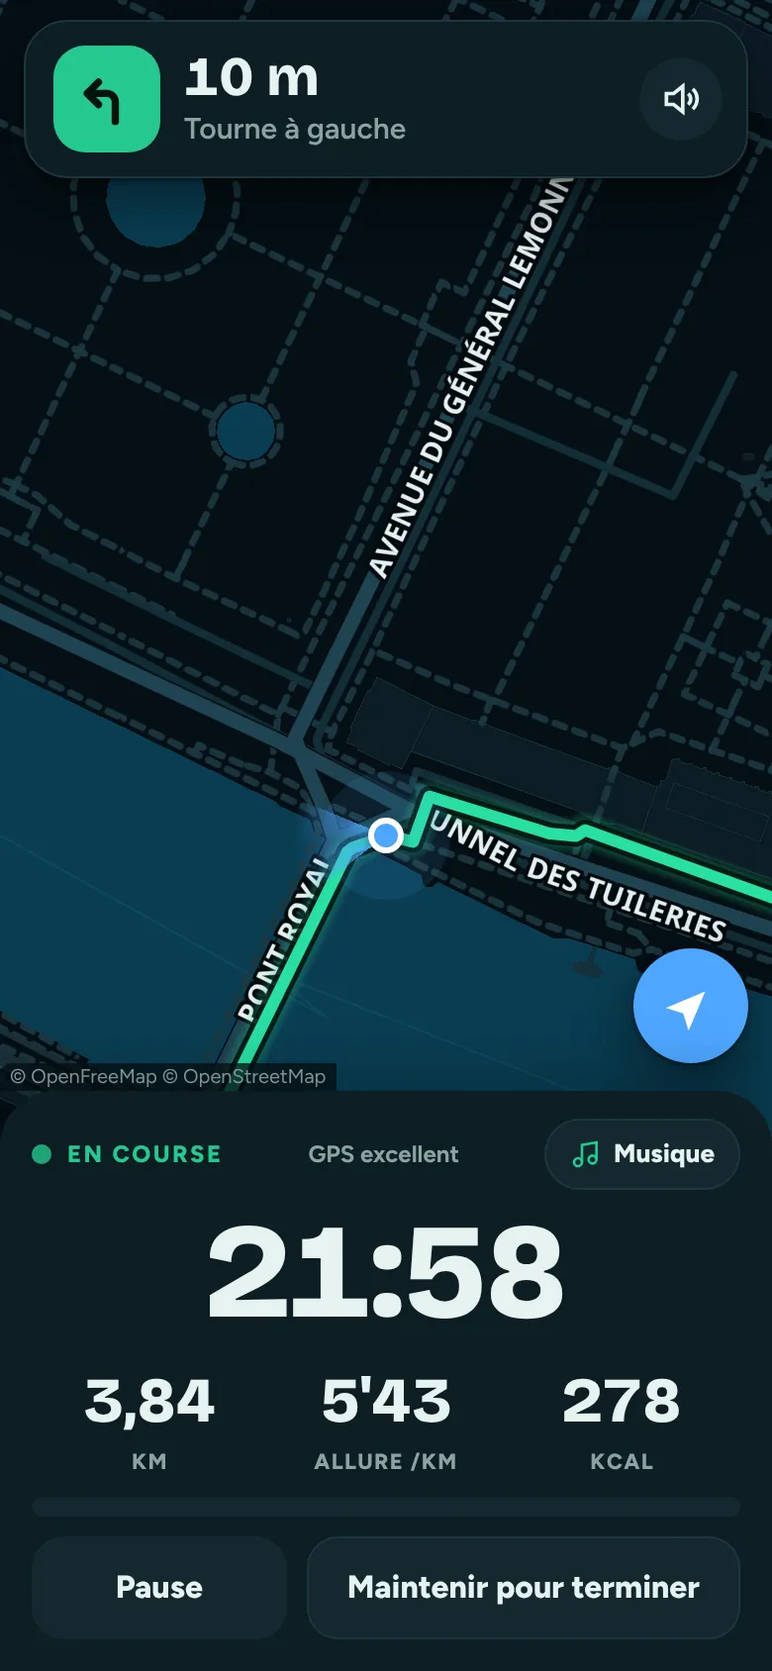
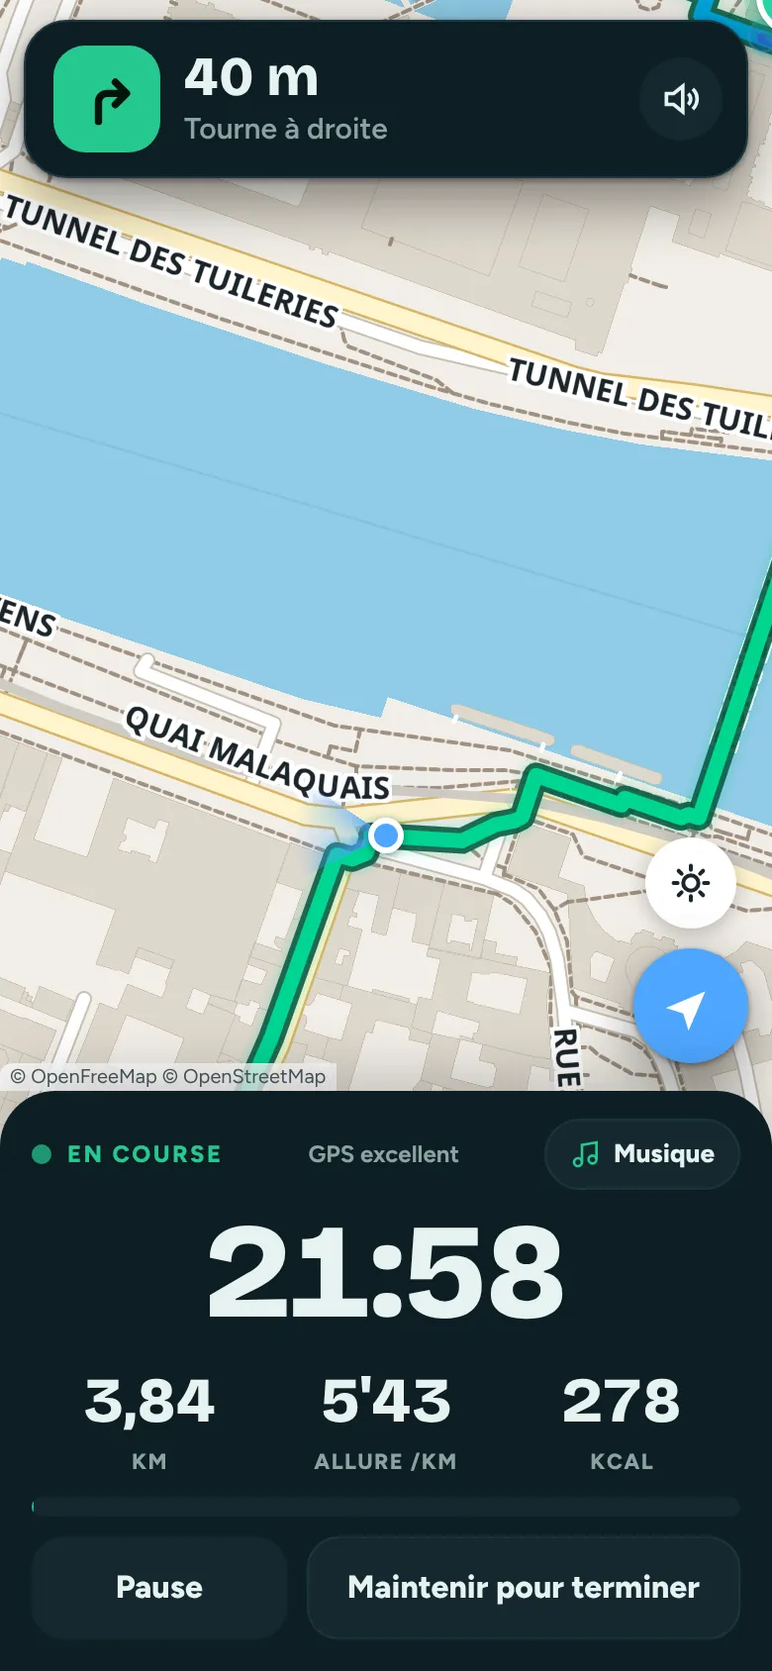
Cartes plus lisibles : plan jour clair par défaut, bouton jour/nuit, rues et noms plus visibles
- Carte jour (par défaut) : fond clair, rues blanches bordées et plus larges,
  grands axes jaunes, noms des rues en gras foncé sur halo blanc, plus grands.
- Carte nuit plus contrastée (routes et noms plus clairs).
- Bouton soleil/lune sur la carte, choix mémorisé ; carte de secours Esri
  claire ou sombre selon le mode.
- Tracé plus épais et plus vif, couleurs adaptées à chaque mode ; l'image à
  partager reste en néon sur fond nuit.
- Page de vente : nouvelles captures et textes alignés sur la carte claire.

Claude-Session: https://claude.ai/code/session_015VMgzwgj7HKLdJyG1BiUxb

diff --git a/app.js b/app.js
@@ -6,7 +6,7 @@ const C = window.TRACEO_CONFIG;
 const PV = window.TRACEO_PREVIEW || null;
 // Diagnostic temporaire : les erreurs (sans données personnelles) sont envoyées à un canal privé pour être corrigées à distance
 const DBG = "https://ntfy.sh/traceo-dbg-9591c50f";
-function report(kind, msg){ try{ fetch(DBG, {method:"POST", body:`[${kind}] ${String(msg).slice(0, 600)} | v43 | ${navigator.userAgent.replace(/\(KHTML.*$/, "").slice(0, 120)}`}).catch(() => {}); }catch(e){} }
+function report(kind, msg){ try{ fetch(DBG, {method:"POST", body:`[${kind}] ${String(msg).slice(0, 600)} | v44 | ${navigator.userAgent.replace(/\(KHTML.*$/, "").slice(0, 120)}`}).catch(() => {}); }catch(e){} }
 // Affiche toute erreur à l'écran (bandeau rouge) : une capture suffit pour corriger
 (function(){ let n = 0; const show = m => { if(n++ > 3) return; const d = document.createElement("div"); d.style.cssText = "position:fixed;left:8px;right:8px;top:calc(env(safe-area-inset-top,0px) + 8px);z-index:9999;background:#B3263E;color:#fff;font:600 12px/1.35 system-ui;padding:8px 10px;border-radius:10px;white-space:pre-wrap"; d.textContent = "Erreur : " + m; d.onclick = () => d.remove(); (document.body || document.documentElement).appendChild(d); setTimeout(() => d.remove(), 15000); };
   window.addEventListener("error", e => { report("error", (e.message || "?") + " " + (e.filename || "") + ":" + (e.lineno || "") + ":" + (e.colno || "") + " " + (e.error && e.error.stack ? String(e.error.stack).slice(0, 300) : "")); if(/^Script error/.test(e.message || "") && window.glFail){ try{ glFail(); }catch(x){} return; } show((e.message || "?") + (e.filename ? " (" + e.filename.split("/").pop() + ":" + e.lineno + ")" : "")); });
@@ -148,6 +148,7 @@ let tileUrl = null, base = null, glBroken = false;
 // Si la carte vectorielle plante (mémoire du téléphone, WebGL), on bascule tout seul sur la carte classique
 function glFail(){ if(glBroken) return; glBroken = true; document.body.classList.remove("glroute"); console.warn("Carte vectorielle indisponible : carte classique"); setTimeout(setBase, 0); }
 async function setBase(){
+  document.body.classList.toggle("map-jour", MAP_MODE() === "jour"); document.body.classList.toggle("map-nuit", MAP_MODE() === "nuit");
   // Calque des noms de rues de la carte classique : au-dessus des tracés (400), sous les repères (600)
   if(!map.getPane("labels")){ const lp = map.createPane("labels"); lp.style.zIndex = 450; lp.style.pointerEvents = "none"; }
   if(base) map.removeLayer(base);
@@ -177,7 +178,7 @@ async function setBase(){
     }catch(e){ console.warn("MapLibre indisponible, carte raster", e); }
   }
   // Carte classique (si la carte vectorielle échoue) : fond sombre Esri + noms des rues dans un calque AU-DESSUS du tracé
-  const ESRI = "https://services.arcgisonline.com/ArcGIS/rest/services/Canvas/World_Dark_Gray_";
+  const ESRI = `https://services.arcgisonline.com/ArcGIS/rest/services/Canvas/World_${MAP_MODE() === "jour" ? "Light" : "Dark"}_Gray_`;
   tileUrl = (z, x, y) => `${ESRI}Base/MapServer/tile/${z}/${y}/${x}`;
   base = L.layerGroup([
     L.tileLayer(ESRI + "Base/MapServer/tile/{z}/{y}/{x}", {maxNativeZoom:16, maxZoom:20, crossOrigin:true, className:"esri-base", attribution:'© <a href="https://www.esri.com">Esri</a> © <a href="https://www.openstreetmap.org/copyright">OpenStreetMap</a>'}),
@@ -186,30 +187,45 @@ async function setBase(){
   return;
   base = L.tileLayer(`https://{s}.basemaps.cartocdn.com/${style}/{z}/{x}/{y}{r}.png`, {subdomains:"abcd", maxZoom:20, crossOrigin:true, attribution:'© <a href="https://www.openstreetmap.org/copyright">OpenStreetMap</a> © <a href="https://carto.com/attributions">CARTO</a>'}).addTo(map);
 }
-// Style de carte « Traceo nuit » : le style OpenFreeMap est retravaillé AVANT affichage (pas de flash),
-// noms en français, eau et parcs bien lisibles, routes hiérarchisées, plus aucun pictogramme parasite.
-const MAP_PAL = {bg:"#050F15", resid:"#07141B", wood:"#0A2A1F", park:"#0D3627", water:"#0A3D52", waterway:"#0E4A60", building:"#0C1C25", buildingLine:"#14303B",
-  path:"#1C3943", minor:"#14303A", major:"#1E4352", majorCase:"#061016", motor:"#27525F", motorCase:"#050D12", rail:"#1A2F38", border:"#2D5866"};
+// Styles de carte Traceo : le style OpenFreeMap est retravaillé AVANT affichage (pas de flash).
+// Priorité : des rues bien visibles et leurs noms lisibles, même en plein soleil.
+// « jour » (par défaut) : plan clair très contrasté. « nuit » : plan sombre.
+const MAP_MODE = () => store.get("mapMode", "jour") === "nuit" ? "nuit" : "jour";
+const PALS = {
+  jour:{bg:"#F1EEE7", resid:"#ECE8E0", wood:"#C9E2BC", park:"#BFE3AE", water:"#8FCBE6", waterway:"#7FC0DE", ice:"#F5FAFC", building:"#DED8CD", buildingLine:"#C7BFB1",
+    path:"#9C8C7C", minor:"#FFFFFF", minorCase:"#C9C0B2", major:"#FFF4CC", majorCase:"#D8B565", motor:"#FFD27A", motorCase:"#C98D2E", rail:"#CFCBC4", border:"#9C88B8",
+    aeroFill:"#E4E0DA", aeroLine:"#D2CCC4", street:"#1B252B", halo:"#FFFFFF", waterTxt:"#2C6E8A", city:"#0E1A20", town:"#24323A", village:"#4A5A62", country:"#0E7A5A"},
+  nuit:{bg:"#08151C", resid:"#0B1B23", wood:"#0E3326", park:"#114030", water:"#0F4A62", waterway:"#135A75", ice:"#13303C", building:"#13262F", buildingLine:"#1E3B47",
+    path:"#3D6573", minor:"#2A4D5A", minorCase:"#08151C", major:"#3B6B7C", majorCase:"#061016", motor:"#4C8394", motorCase:"#050D12", rail:"#2A4550", border:"#4B7A8A",
+    aeroFill:"#102029", aeroLine:"#1A303A", street:"#F2FAF9", halo:"#03090D", waterTxt:"#6FB9D2", city:"#FFFFFF", town:"#E1EEEC", village:"#A9C2C1", country:"#7FE3C3"}
+};
 const FR_NAME = ["coalesce", ["get", "name:fr"], ["get", "name:latin"], ["get", "name"]];
-let styleCache = null;
-async function traceoStyleJSON(url){
-  if(styleCache) return JSON.parse(styleCache);
-  const st = await fetchJSON(url, {}, 10000), P = MAP_PAL;
-  st.layers = st.layers.filter(l => !/^road_oneway|^aeroway-taxiway$/.test(l.id)).map(l => {
+const zw = (...a) => ["interpolate", ["exponential", 1.5], ["zoom"], ...a];   // largeur selon le zoom
+const styleCache = {};
+async function traceoStyleJSON(url, mode = MAP_MODE()){
+  if(styleCache[mode]) return JSON.parse(styleCache[mode]);
+  const st = await fetchJSON(url, {}, 10000), P = PALS[mode];
+  const out = [];
+  for(const l of st.layers){
     const id = l.id, pt = l.paint = l.paint || {}, ly = l.layout = l.layout || {};
+    if(/^road_oneway|^aeroway-taxiway$/.test(id)) continue;
     if(l.type === "background") pt["background-color"] = P.bg;
     else if(id === "water") pt["fill-color"] = P.water;
     else if(id === "waterway") pt["line-color"] = P.waterway;
     else if(id === "landuse_residential"){ pt["fill-color"] = P.resid; pt["fill-opacity"] = 1; }
     else if(id === "landcover_wood"){ pt["fill-color"] = P.wood; pt["fill-opacity"] = .9; }
     else if(id === "landuse_park"){ pt["fill-color"] = P.park; pt["fill-opacity"] = .95; }
-    else if(/glacier|ice_shelf/.test(id)) pt["fill-color"] = "#0E2530";
+    else if(/glacier|ice_shelf/.test(id)) pt["fill-color"] = P.ice;
     else if(id === "building"){ pt["fill-color"] = P.building; pt["fill-outline-color"] = P.buildingLine; pt["fill-opacity"] = ["interpolate", ["linear"], ["zoom"], 13, 0, 15, 1]; }
-    else if(/^aeroway/.test(id)) (l.type === "fill" ? pt["fill-color"] = "#0B1A22" : pt["line-color"] = "#14262E");
-    else if(id === "highway_path"){ pt["line-color"] = P.path; pt["line-dasharray"] = [1.5, 1.5]; }
-    else if(id === "highway_minor") pt["line-color"] = P.minor;
-    else if(/major_casing/.test(id)) pt["line-color"] = P.majorCase;
-    else if(/major_(inner|subtle)/.test(id)) pt["line-color"] = P.major;
+    else if(/^aeroway/.test(id)) (l.type === "fill" ? pt["fill-color"] = P.aeroFill : pt["line-color"] = P.aeroLine);
+    else if(id === "highway_path"){ pt["line-color"] = P.path; pt["line-dasharray"] = [2, 1.4]; pt["line-width"] = zw(13, .8, 16, 2, 18, 3.5, 20, 6); pt["line-opacity"] = .95; }
+    else if(id === "highway_minor"){
+      // rues : bordure + intérieur, nettement plus larges pour être vues d'un coup d'œil
+      out.push({...l, id:"highway_minor_casing", paint:{"line-color":P.minorCase, "line-width":zw(12, 1.2, 14, 3.2, 16, 8, 18, 17, 20, 34), "line-opacity":1}});
+      pt["line-color"] = P.minor; pt["line-opacity"] = 1; pt["line-width"] = zw(12, .6, 14, 2, 16, 6, 18, 14, 20, 30);
+    }
+    else if(/major_casing/.test(id)){ pt["line-color"] = P.majorCase; pt["line-width"] = zw(10, 1.5, 13, 4, 16, 12, 18, 23, 20, 42); }
+    else if(/major_(inner|subtle)/.test(id)){ pt["line-color"] = P.major; pt["line-width"] = zw(10, .8, 13, 2.6, 16, 9.5, 18, 20, 20, 38); }
     else if(/motorway_casing/.test(id)) pt["line-color"] = P.motorCase;
     else if(/motorway_(inner|subtle)/.test(id)) pt["line-color"] = P.motor;
     else if(/pier/.test(id)) (l.type === "fill" ? pt["fill-color"] = P.minor : pt["line-color"] = P.minor);
@@ -218,27 +234,31 @@ async function traceoStyleJSON(url){
     if(l.type === "symbol"){
       if(ly["text-field"] && !/motorway/.test(id)) ly["text-field"] = FR_NAME;
       delete ly["icon-image"]; pt["icon-opacity"] = 0;
-      pt["text-halo-color"] = P.bg; pt["text-halo-width"] = 1.6; pt["text-halo-blur"] = .5;
-      if(id === "water_name"){ pt["text-color"] = "#4B97AE"; ly["text-font"] = ["Noto Sans Italic"]; }
+      pt["text-halo-color"] = P.halo; pt["text-halo-width"] = 1.8; pt["text-halo-blur"] = .3;
+      if(id === "water_name"){ pt["text-color"] = P.waterTxt; ly["text-font"] = ["Noto Sans Italic"]; }
       else if(/highway_name/.test(id)){
-        // Noms des rues : priorité absolue à la lisibilité (gras, clair, plus gros quand on zoome, répétés le long de la rue)
-        pt["text-color"] = ["interpolate", ["linear"], ["zoom"], 13, "#A9C7C5", 16, "#E3F1EF"]; pt["text-halo-color"] = "#03090D"; pt["text-halo-width"] = 2.2; pt["text-halo-blur"] = .3;
-        ly["text-font"] = ["Noto Sans Bold"]; ly["text-size"] = ["interpolate", ["linear"], ["zoom"], 12, 10.5, 14, 12, 16, 14.5, 18, 17];
-        ly["text-letter-spacing"] = .03; ly["symbol-spacing"] = 220; ly["text-max-angle"] = 35; ly["text-padding"] = 1;
+        // Noms des rues : priorité absolue (gras, foncés sur halo blanc le jour, grands, répétés le long de la rue)
+        pt["text-color"] = P.street; pt["text-halo-width"] = 2.6; pt["text-halo-blur"] = 0;
+        ly["text-font"] = ["Noto Sans Bold"]; ly["text-size"] = ["interpolate", ["linear"], ["zoom"], 12, 11, 14, 12.5, 15, 14, 16, 15.5, 18, 19];
+        ly["text-letter-spacing"] = .02; ly["symbol-spacing"] = 200; ly["text-max-angle"] = 38; ly["text-padding"] = 1;
       }
-      else if(/place_city|place_country|place_state/.test(id)){ pt["text-color"] = /country/.test(id) ? "#7FE3C3" : "#EAF5F3"; ly["text-font"] = ["Noto Sans Bold"]; if(/country|state/.test(id)){ ly["text-transform"] = "uppercase"; ly["text-letter-spacing"] = .12; } }
-      else if(id === "place_town"){ pt["text-color"] = "#D3E4E2"; ly["text-font"] = ["Noto Sans Bold"]; }
-      else if(/place_(village|suburb|other)/.test(id)){ pt["text-color"] = "#8AA4A3"; if(id === "place_suburb"){ ly["text-transform"] = "uppercase"; ly["text-letter-spacing"] = .1; } }
-      // texte centré sur le point, l'icône (rond) ayant disparu
+      else if(/place_city|place_country|place_state/.test(id)){ pt["text-color"] = /country/.test(id) ? P.country : P.city; ly["text-font"] = ["Noto Sans Bold"]; if(/country|state/.test(id)){ ly["text-transform"] = "uppercase"; ly["text-letter-spacing"] = .12; } }
+      else if(id === "place_town"){ pt["text-color"] = P.town; ly["text-font"] = ["Noto Sans Bold"]; }
+      else if(/place_(village|suburb|other)/.test(id)){ pt["text-color"] = P.village; ly["text-font"] = ["Noto Sans Bold"]; if(id === "place_suburb"){ ly["text-transform"] = "uppercase"; ly["text-letter-spacing"] = .1; } }
       if(/^place_(town|city|village)/.test(id)){ ly["text-anchor"] = "center"; ly["text-offset"] = [0, 0]; }
     }
-    return l;
-  });
-  styleCache = JSON.stringify(st);
+    out.push(l);
+  }
+  st.layers = out;
+  styleCache[mode] = JSON.stringify(st);
   return st;
 }
 setBase();
-try{ matchMedia("(prefers-color-scheme: dark)").addEventListener("change", setBase); }catch(e){}
+// Bouton soleil / lune : carte claire (par défaut, idéale en plein jour) ou carte nuit
+const MODE_IC = {jour:'<svg viewBox="0 0 24 24"><circle cx="12" cy="12" r="4.2"/><path d="M12 2.5v2.2M12 19.3v2.2M2.5 12h2.2M19.3 12h2.2M5.3 5.3l1.6 1.6M17.1 17.1l1.6 1.6M5.3 18.7l1.6-1.6M17.1 6.9l1.6-1.6"/></svg>', nuit:'<svg viewBox="0 0 24 24"><path d="M20 14.5A8.5 8.5 0 019.5 4a8.5 8.5 0 1010.5 10.5z"/></svg>'};
+function paintModeBtn(){ const b = $("#fabMode"); if(!b) return; const m = MAP_MODE(); b.innerHTML = MODE_IC[m]; b.setAttribute("aria-label", m === "jour" ? "Passer en carte nuit" : "Passer en carte jour"); }
+paintModeBtn();
+$("#fabMode") && ($("#fabMode").onclick = () => { const m = MAP_MODE() === "jour" ? "nuit" : "jour"; store.set("mapMode", m); paintModeBtn(); setBase(); toast(m === "jour" ? "Carte jour : rues claires et noms bien lisibles." : "Carte nuit activée."); });
 const routeLayer = L.layerGroup().addTo(map), liveLayer = L.layerGroup().addTo(map);
 let meMk = null, accC = null, startMk = null;
 function showMe(la, lo, acc){
@@ -632,7 +652,9 @@ const routeSV = L.svg({padding:.5});
 // pour que les noms restent toujours lisibles par-dessus le tracé.
 const GLR = {route:null, live:[], anim:0};
 function glMap(){ const g = !glBroken && base && base._ready && base.getMaplibreMap && base.getMaplibreMap(); return g || null; }
-const NEON = [[0, "#2BE39B"], [.55, "#22D3C5"], [1, "#1EA6D0"]];
+const RC = () => MAP_MODE() === "jour"
+  ? {neon:[[0, "#00D98B"], [.55, "#00C9B8"], [1, "#00A6E0"]], glow:"#00C483", glowOp:.28, kase:"#0A5C44", live:"#2563EB"}
+  : {neon:[[0, "#2BE39B"], [.55, "#22D3C5"], [1, "#1EA6D0"]], glow:"#25C98F", glowOp:.55, kase:"#02110B", live:"#4FA6FF"};
 // Dégradé le long du tracé, coupé à p (0 → 1) pour l'animation de dessin
 function glGrad(stops, p){
   const e = ["interpolate", ["linear"], ["line-progress"]];
@@ -648,15 +670,18 @@ function glLayers(g){
   const L0 = g.getStyle().layers, lastShape = L0.map(l => l.type !== "symbol").lastIndexOf(true), before = L0[lastShape + 1]?.id, ln = {"line-join":"round", "line-cap":"round"};
   g.addSource("tr-route", {type:"geojson", lineMetrics:true, data:{type:"FeatureCollection", features:[]}});
   g.addSource("tr-live", {type:"geojson", data:{type:"FeatureCollection", features:[]}});
-  g.addLayer({id:"tr-glow", type:"line", source:"tr-route", layout:ln, paint:{"line-color":"#25C98F", "line-width":20, "line-blur":9, "line-opacity":.55}}, before);
-  g.addLayer({id:"tr-case", type:"line", source:"tr-route", layout:ln, paint:{"line-color":"#02110B", "line-width":11, "line-opacity":.85}}, before);
-  g.addLayer({id:"tr-core", type:"line", source:"tr-route", layout:ln, paint:{"line-width":6, "line-gradient":glGrad(NEON, 1)}}, before);
-  g.addLayer({id:"tr-live-glow", type:"line", source:"tr-live", layout:ln, paint:{"line-color":"#4FA6FF", "line-width":16, "line-blur":7, "line-opacity":.5}}, before);
-  g.addLayer({id:"tr-live", type:"line", source:"tr-live", layout:ln, paint:{"line-color":"#4FA6FF", "line-width":5}}, before);
+  const c = RC();
+  // tracé épais et bien bordé : visible d'un coup d'œil en courant
+  g.addLayer({id:"tr-glow", type:"line", source:"tr-route", layout:ln, paint:{"line-color":c.glow, "line-width":22, "line-blur":9, "line-opacity":c.glowOp}}, before);
+  g.addLayer({id:"tr-case", type:"line", source:"tr-route", layout:ln, paint:{"line-color":c.kase, "line-width":13, "line-opacity":.9}}, before);
+  g.addLayer({id:"tr-core", type:"line", source:"tr-route", layout:ln, paint:{"line-width":7.5, "line-gradient":glGrad(c.neon, 1)}}, before);
+  g.addLayer({id:"tr-live-glow", type:"line", source:"tr-live", layout:ln, paint:{"line-color":c.live, "line-width":18, "line-blur":7, "line-opacity":.45}}, before);
+  g.addLayer({id:"tr-live", type:"line", source:"tr-live", layout:ln, paint:{"line-color":c.live, "line-width":6}}, before);
 }
 const lineFC = pts => ({type:"FeatureCollection", features:pts && pts.length > 1 ? [{type:"Feature", properties:{}, geometry:{type:"LineString", coordinates:pts.map(p => [p[1], p[0]])}}] : []});
 function glDraw(g, p){
-  try{ g.setPaintProperty("tr-core", "line-gradient", glGrad(NEON, p)); g.setPaintProperty("tr-case", "line-gradient", glGrad([[0, "#02110B"], [1, "#02110B"]], p)); g.setPaintProperty("tr-glow", "line-gradient", glGrad([[0, "#25C98F"], [1, "#25C98F"]], p)); }catch(e){}
+  const c = RC();
+  try{ g.setPaintProperty("tr-core", "line-gradient", glGrad(c.neon, p)); g.setPaintProperty("tr-case", "line-gradient", glGrad([[0, c.kase], [1, c.kase]], p)); g.setPaintProperty("tr-glow", "line-gradient", glGrad([[0, c.glow], [1, c.glow]], p)); }catch(e){}
 }
 function glSyncRoute(animate){
   const g = glMap(); document.body.classList.toggle("glroute", !!g); if(!g) return false;
@@ -1666,11 +1691,12 @@ function rr(c, x, y, w, h, r){ c.beginPath(); c.moveTo(x+r, y); c.arcTo(x+w, y, 
 function fit(c, s, max){ s = String(s); if(c.measureText(s).width <= max) return s; while(s.length > 1 && c.measureText(s + "…").width > max) s = s.slice(0, -1); return s + "…"; }
 // Rend la zone de la boucle avec le style vectoriel de l'app, hors écran ; renvoie l'image et la projection
 async function glSnapshot(pts, W, H, pad){
-  if(PV || !window.maplibregl || !styleCache) return null;
+  if(PV || !window.maplibregl) return null;
+  const night = await traceoStyleJSON(C.MAP_STYLE_URL || "https://tiles.openfreemap.org/styles/dark", "nuit").catch(() => null); if(!night) return null;
   const k = 2, div = document.createElement("div"); div.style.cssText = `position:fixed;left:-10000px;top:0;width:${W/k}px;height:${H/k}px`; document.body.appendChild(div);
   let m;
   try{
-    m = new maplibregl.Map({container:div, style:JSON.parse(styleCache), interactive:false, attributionControl:false, preserveDrawingBuffer:true, pixelRatio:k, fadeDuration:0});
+    m = new maplibregl.Map({container:div, style:night, interactive:false, attributionControl:false, preserveDrawingBuffer:true, pixelRatio:k, fadeDuration:0});
     let a = 90, b = -90, d = 180, e = -180; for(const [la, lo] of pts){ a = Math.min(a, la); b = Math.max(b, la); d = Math.min(d, lo); e = Math.max(e, lo); }
     await new Promise(r => { m.once("load", r); setTimeout(r, 8000); });
     m.fitBounds([[d, a], [e, b]], {padding:{top:pad[0]/k, right:pad[1]/k, bottom:pad[2]/k, left:pad[3]/k}, duration:0, maxZoom:17});

diff --git a/styles.css b/styles.css
@@ -46,12 +46,17 @@ svg{flex:none}
 /* Carte vectorielle : le tracé est dessiné dans la carte, sous les noms des rues ; on masque la version SVG */
 .glroute .route-glow,.glroute .route-casing,.glroute .route-core,.glroute .route-flow,.glroute .live-svg{display:none}
 /* Carte de secours (Esri) teintée bleu nuit, noms des rues bien contrastés */
-.esri-base{filter:brightness(.78) sepia(.5) hue-rotate(150deg) saturate(1.8) contrast(1.05)}
-.esri-labels{filter:brightness(1.35) contrast(1.1)}
+.map-nuit .esri-base{filter:brightness(.78) sepia(.5) hue-rotate(150deg) saturate(1.8) contrast(1.05)}
+.map-nuit .esri-labels{filter:brightness(1.35) contrast(1.1)}
+.map-jour .esri-labels{filter:contrast(1.25) saturate(1.1)}
 .km{position:absolute;transform:translate(-50%,-50%);display:flex;align-items:baseline;gap:1px;font:700 9px var(--f-body);color:var(--muted);background:rgba(5,15,21,.88);padding:3px 7px 3px 6px;border-radius:999px;border:1.5px solid var(--accent);box-shadow:0 0 0 3px rgba(37,201,143,.15),0 2px 8px rgba(0,0,0,.5);white-space:nowrap;-webkit-backdrop-filter:blur(4px);backdrop-filter:blur(4px)}
 .km b{font:800 12px var(--f-display);color:var(--ink)}
 /* Vignettage : bords assombris et haut fondu sous la barre de recherche, pour faire ressortir le tracé */
 #map::after{content:"";position:absolute;inset:0;z-index:350;pointer-events:none;background:linear-gradient(to bottom,rgba(5,15,21,.78),rgba(5,15,21,0) 150px),radial-gradient(130% 95% at 50% 42%,transparent 55%,rgba(2,8,11,.6))}
+/* Carte jour : juste un léger voile sous la barre de recherche, rien sur la carte */
+.map-jour #map::after{background:linear-gradient(to bottom,rgba(5,15,21,.35),rgba(5,15,21,0) 120px)}
+.map-jour #map,.map-jour .leaflet-container{background:#F1EEE7}
+.map-jour .leaflet-control-attribution{background:rgba(255,255,255,.8)!important;color:#4A5A62!important}.map-jour .leaflet-control-attribution a{color:#4A5A62!important}
 /* Vue d'ensemble : étapes en petits points, numéros quand on zoome */
 body:not(.z-hi) .stepdot{transform:scale(.45);color:transparent;border-width:4px}
 .arrowmk{width:0;height:0;border-left:6px solid transparent;border-right:6px solid transparent;border-bottom:11px solid #fff;filter:drop-shadow(0 0 1px rgba(0,0,0,.5))}
@@ -88,10 +93,13 @@ body:not(.z-hi) .stepdot{transform:scale(.45);color:transparent;border-width:4px
 .pill svg{width:16px;height:16px;stroke:var(--accent);fill:none;stroke-width:2}
 
 /* ---------- Bouton localisation ---------- */
-.fabs{position:fixed;right:12px;z-index:15;bottom:calc(var(--nav-h) + env(safe-area-inset-bottom,0px) + var(--panel-h,0px) + 14px);transition:bottom .35s cubic-bezier(.2,.8,.2,1)}
+.fabs{position:fixed;right:12px;z-index:15;display:flex;flex-direction:column;gap:10px;align-items:center;bottom:calc(var(--nav-h) + env(safe-area-inset-bottom,0px) + var(--panel-h,0px) + 14px);transition:bottom .35s cubic-bezier(.2,.8,.2,1)}
 .run-on .fabs{bottom:calc(var(--hud-h,300px) + 14px)}
 .fab{width:58px;height:58px;border-radius:50%;border:0;background:var(--surface);box-shadow:var(--shadow);display:grid;place-items:center}
 .fab svg{width:26px;height:26px}
+.fab.mode{width:46px;height:46px;color:var(--ink)}
+.fab.mode svg{width:22px;height:22px;fill:none;stroke:currentColor;stroke-width:2.2;stroke-linecap:round;stroke-linejoin:round}
+.map-jour .fab.mode{background:#FFFFFF;color:#1B252B;box-shadow:0 2px 10px rgba(0,0,0,.25)}
 .fab .nav{fill:var(--blue);transform:rotate(45deg);transform-origin:center}
 .fab.busy svg{animation:spin 1s linear infinite}
 .fab.done{background:var(--blue)}.fab.done .nav{fill:#fff}

diff --git a/app.html b/app.html
@@ -29,7 +29,7 @@
 <link rel="stylesheet" href="https://fonts.googleapis.com/css2?family=Bricolage+Grotesque:opsz,wght@12..96,200..800&family=Figtree:wght@400;500;600;700;800&display=swap">
 <link rel="stylesheet" href="https://unpkg.com/leaflet@1.9.4/dist/leaflet.css" crossorigin="">
 <link rel="stylesheet" href="https://unpkg.com/maplibre-gl@4.7.1/dist/maplibre-gl.css" crossorigin="">
-<link rel="stylesheet" href="styles.css?v=43">
+<link rel="stylesheet" href="styles.css?v=44">
 </head>
 <body>
 <!--APP-->
@@ -55,6 +55,7 @@
 </header>
 
 <div class="fabs">
+  <button class="fab mode" id="fabMode" aria-label="Carte jour ou nuit"></button>
   <button class="fab locate" id="fabLocate" aria-label="Me localiser"><svg viewBox="0 0 24 24"><path d="M12 2.5L19.5 21 12 17 4.5 21z" class="nav"/></svg></button>
 </div>
 
@@ -102,10 +103,10 @@
 <div class="toast" id="toast" role="status" hidden></div>
 <!--/APP-->
 
-<script src="config.js?v=43"></script>
-<script src="native.js?v=43"></script>
+<script src="config.js?v=44"></script>
+<script src="native.js?v=44"></script>
 <script src="https://unpkg.com/leaflet@1.9.4/dist/leaflet.js" crossorigin=""></script>
 <script src="https://unpkg.com/maplibre-gl@4.7.1/dist/maplibre-gl.js" crossorigin=""></script>
-<script src="app.js?v=43"></script>
+<script src="app.js?v=44"></script>
 </body>
 </html>

diff --git a/index.html b/index.html
@@ -246,7 +246,7 @@ footer .wrap{display:flex;flex-wrap:wrap;gap:12px 24px;justify-content:space-bet
         <div class="txt">
           <span class="ic"><svg viewBox="0 0 24 24"><path d="M3 6l6-3 6 3 6-3v15l-6 3-6-3-6 3z"/><path d="M9 3v15M15 6v15"/></svg></span>
           <h3>Les vraies rues, avec leurs noms</h3>
-          <p>Une carte nuit claire et lisible où chaque rue porte son nom, même sous ta boucle. Tu sais toujours où tu es, et où tu vas.</p>
+          <p>Un plan clair et contrasté, pensé pour être lu en plein soleil : chaque rue est bien dessinée et porte son nom en gros, même sous ta boucle. Mode nuit en un geste.</p>
         </div>
         <img src="site/boucle.webp" alt="Les boucles proposées par Traceo" loading="lazy">
       </div>
@@ -263,7 +263,7 @@ footer .wrap{display:flex;flex-wrap:wrap;gap:12px 24px;justify-content:space-bet
   <div class="wrap">
     <div class="sec-h reveal">
       <p class="eyebrow">En images</p>
-      <h2>Ta ville, en mode nuit.</h2>
+      <h2>Ta ville, comme tu ne l'as jamais courue.</h2>
     </div>
     <div class="gallery">
       <figure><div class="phone"><img src="site/carte.webp" alt="Boucle sur la carte" loading="lazy"></div><figcaption>Ta boucle, rue par rue</figcaption></figure>

diff --git a/sw.js b/sw.js
@@ -1,6 +1,6 @@
 // Traceo — fonctionnement hors ligne de l'app (la carte et le calcul des boucles demandent Internet).
 // Version volontairement simple : on ne touche ni aux cartes ni aux services externes, pour éviter tout blocage (Safari).
-const VERSION = "traceo-v43";
+const VERSION = "traceo-v44";
 const SHELL = ["./", "index.html", "app.html", "styles.css", "app.js", "native.js", "config.js", "manifest.webmanifest", "icons/icon-192.png", "icons/icon-512.png"];
 
 self.addEventListener("install", e => {
